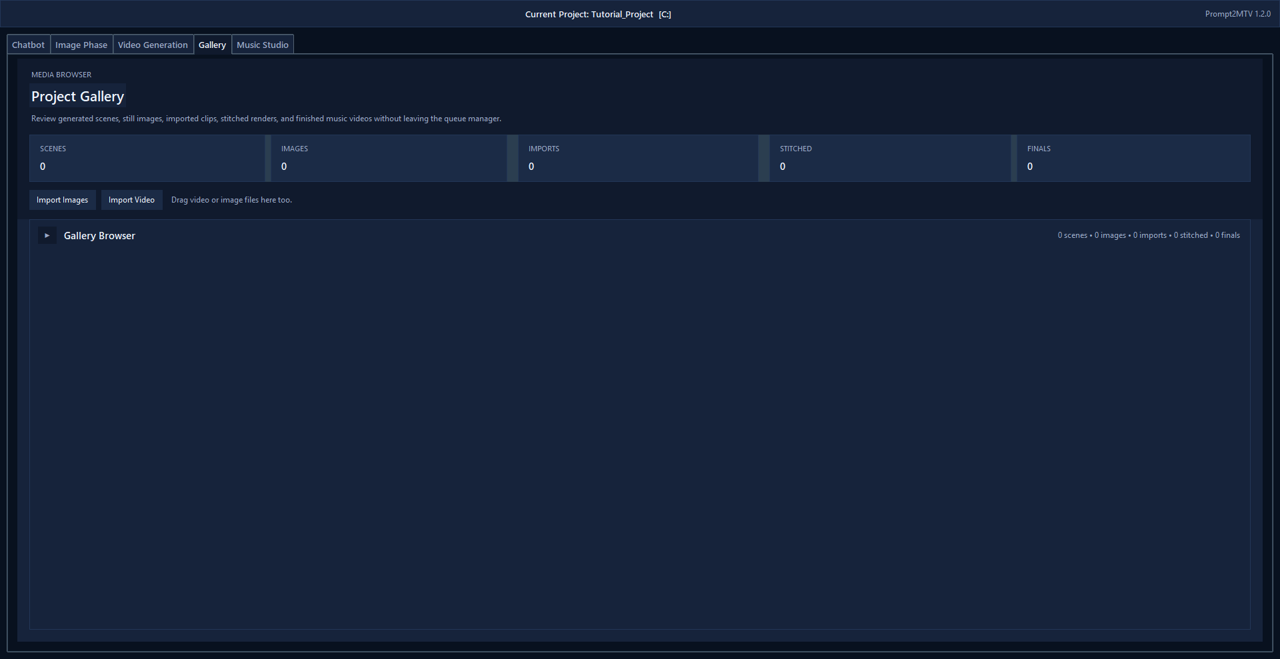
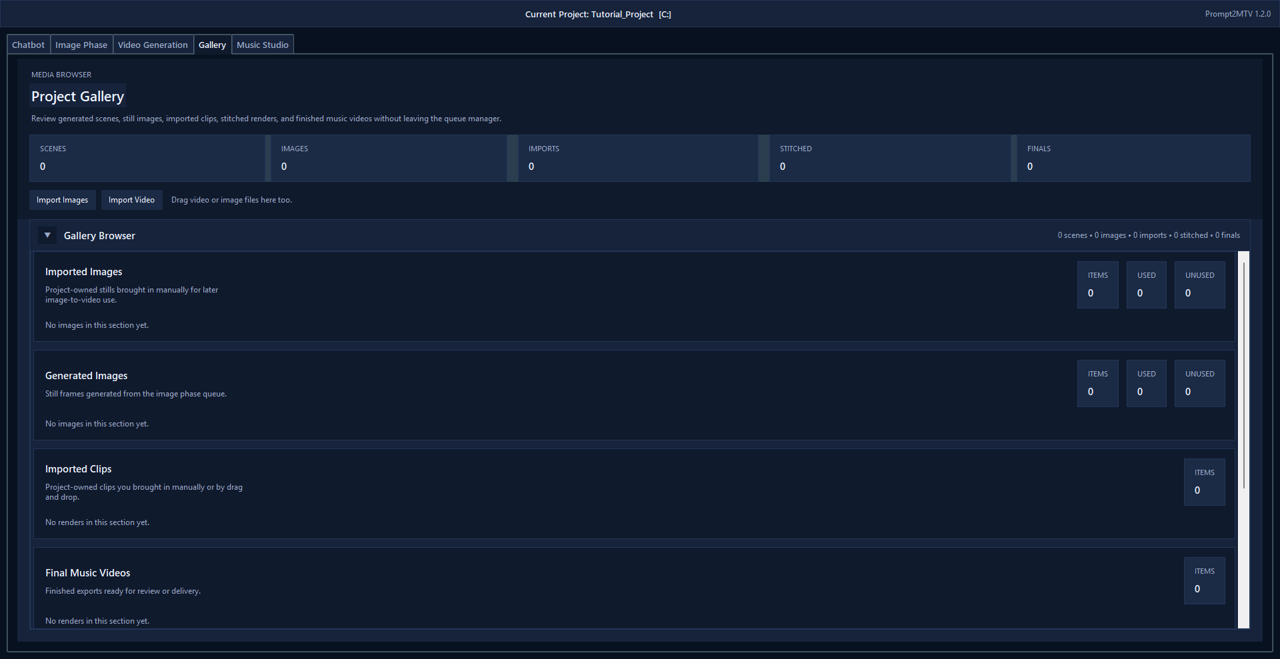
Improve README screenshots with expanded sections and sample data
- Expand collapsible sections on each tab before capture
- Inject sample scene prompts, image prompts, music tags and lyrics
- Monkey-patch ComfyUI launch to prevent side-effects during capture
- Chatbot: conversation visible, Creative Workspace expanded
- Image Phase: utilities + prompt queue expanded with 3 prompts
- Video Generation: scene timeline expanded with 3 scenes
- Gallery: browser expanded showing all media categories
- Music Studio: style direction + lyrics + run sections expanded

diff --git a/tools/capture_screenshots.py b/tools/capture_screenshots.py
@@ -2,9 +2,8 @@
 """
 Automated screenshot capture for Prompt2MTV README.
 
-Launches the app headlessly (no mainloop), navigates each tab,
-injects sample data where needed, and captures screenshots using
-Pillow's ImageGrab.
+Launches the app, navigates each tab, injects sample data, expands
+collapsible sections, and captures screenshots using Pillow ImageGrab.
 
 Usage:
     python tools/capture_screenshots.py
@@ -14,6 +13,7 @@ import ctypes
 import os
 import sys
 import time
+import tkinter as tk
 
 # ── DPI awareness (must be set before any Tk import) ────────────────────────
 try:
@@ -31,37 +31,97 @@ from PIL import ImageGrab  # noqa: E402
 SCREENSHOT_DIR = os.path.join(PROJECT_ROOT, "screenshots")
 os.makedirs(SCREENSHOT_DIR, exist_ok=True)
 
-# Target width for README images (screenshots will be resized proportionally)
+# Target width for README images
 TARGET_WIDTH = 1280
 
 # ── Sample data ─────────────────────────────────────────────────────────────
 CHATBOT_SAMPLE_TURNS = [
-    ("user", "I want to create a cinematic music video about a lone astronaut drifting through a neon-lit nebula. Can you help brainstorm ideas?"),
-    ("assistant", "Great concept! Here are a few directions we could take:\n\n"
-     "1. **Solitude & Wonder** — slow, sweeping shots of the astronaut silhouetted against swirling violet and teal gas clouds.\n"
-     "2. **Retro-Futurism** — 80s-inspired synthwave palette with glowing grid lines overlaid on deep-space vistas.\n"
-     "3. **Emotional Arc** — start in cold darkness, gradually introduce warm neon hues as the music builds.\n\n"
+    ("user", "I want to create a cinematic music video about a lone astronaut drifting "
+     "through a neon-lit nebula. Can you help brainstorm ideas?"),
+    ("assistant",
+     "Great concept! Here are a few directions we could take:\n\n"
+     "1. Solitude & Wonder — slow, sweeping shots of the astronaut silhouetted "
+     "against swirling violet and teal gas clouds.\n"
+     "2. Retro-Futurism — 80s-inspired synthwave palette with glowing grid lines "
+     "overlaid on deep-space vistas.\n"
+     "3. Emotional Arc — start in cold darkness, gradually introduce warm neon "
+     "hues as the music builds.\n\n"
      "Which vibe resonates with you, or shall I combine elements?"),
     ("user", "I love the Retro-Futurism angle with the emotional arc! Let's combine those."),
-    ("assistant", "Perfect combo! I'll draft scene prompts that start in dark deep-space with subtle cyan edges, "
-     "then gradually introduce hot-pink and gold neon grids as the track reaches its crescendo. "
-     "The astronaut's visor will reflect the growing light — a nice metaphor for discovery. "
-     "Ready to generate the scene breakdown when you are!"),
+    ("assistant",
+     "Perfect combo! I'll draft scene prompts that start in dark deep-space with "
+     "subtle cyan edges, then gradually introduce hot-pink and gold neon grids as "
+     "the track reaches its crescendo. The astronaut's visor will reflect the "
+     "growing light — a nice metaphor for discovery. Ready to generate the scene "
+     "breakdown when you are!"),
 ]
+
+SCENE_PROMPTS = [
+    "A lone astronaut floats in silence through the void of deep space. Faint cyan light "
+    "edges the suit's visor. Stars drift slowly. Cold, dark, cinematic wide shot.",
+    "The camera slowly pushes in as a neon-purple nebula emerges behind the astronaut. "
+    "Synthwave grid lines begin to materialize in the gas clouds, glowing faintly.",
+    "Hot-pink and gold neon light floods the frame as the nebula erupts in color. "
+    "The astronaut's visor reflects swirling patterns. Music crescendo, euphoric.",
+]
+
+IMAGE_PROMPTS = [
+    "Deep-space void, lone astronaut silhouette, faint cyan rim light on helmet visor, "
+    "ultra-wide cinematic still, 8K, photorealistic",
+    "Retro-futurism nebula swirl, synthwave grid overlay, violet and teal gas clouds, "
+    "astronaut mid-frame, digital painting, concept art",
+    "Neon explosion nebula, hot-pink and gold light rays, astronaut visor reflection, "
+    "dramatic close-up portrait, hyper-detailed",
+]
+
+MUSIC_TAGS = (
+    "synthwave, retro-futurism, cinematic, atmospheric, electronic, "
+    "80s nostalgia, dreamy pads, arpeggiated synths, deep bass, "
+    "emotional build, neon-lit, space exploration, euphoric crescendo"
+)
+
+MUSIC_LYRICS = """[Verse 1]
+Drifting through the silence of a thousand suns
+Cold and weightless, counting stars that never come
+A flicker on the visor, cyan edge of light
+The universe is waking from an endless night
+
+[Chorus]
+Neon rising, colors bleeding through the dark
+Every photon carries fire, every wave a spark
+Hold your breath and feel the grid beneath your skin
+The nebula is calling — let the light begin
+
+[Verse 2]
+Pink and gold erupting where the void once stood
+Synthwave pulses echoing like heart and blood
+Reflections in the glass of everything I've found
+A universe of color where there was no sound
+
+[Chorus]
+Neon rising, colors bleeding through the dark
+Every photon carries fire, every wave a spark
+Hold your breath and feel the grid beneath your skin
+The nebula is calling — let the light begin"""
+
+
+# ── Helpers ─────────────────────────────────────────────────────────────────
+
+def _settle(root, delay=0.5):
+    """Force TK to update and wait for the compositor."""
+    root.update_idletasks()
+    root.update()
+    time.sleep(delay)
 
 
 def _grab_window(root):
     """Capture the Tk root window region and return a PIL Image."""
-    root.update_idletasks()
-    root.update()
-    time.sleep(0.4)  # let the compositor finish rendering
-
+    _settle(root, 0.5)
     x = root.winfo_rootx()
     y = root.winfo_rooty()
     w = root.winfo_width()
     h = root.winfo_height()
-    img = ImageGrab.grab(bbox=(x, y, x + w, y + h))
-    return img
+    return ImageGrab.grab(bbox=(x, y, x + w, y + h))
 
 
 def _save(img, name):
@@ -75,67 +135,152 @@ def _save(img, name):
     return path
 
 
+def _open_section(app, key):
+    """Open a collapsible section by key (close siblings in its group)."""
+    app._set_collapsible_section_open(key, True)
+
+
 def main():
     print("Launching Prompt2MTV for screenshot capture …")
 
-    # Import app classes
+    # ── Monkey-patch to prevent ComfyUI from launching ──────────────────
     import ltx_queue_manager as mod
+    _original_launch = mod.LTXQueueManager.launch_comfyui
+    mod.LTXQueueManager.launch_comfyui = lambda self: None
 
     root = mod.Prompt2MTVWindow(themename=mod.THEME_NAME)
     app = mod.LTXQueueManager(root)
 
+    # Restore in case we need it later
+    mod.LTXQueueManager.launch_comfyui = _original_launch
+
     # Let the UI fully render
-    root.update_idletasks()
-    root.update()
-    time.sleep(1.5)
+    _settle(root, 1.5)
 
     saved = []
 
-    # ── 1. Chatbot tab (Chat mode with sample conversation) ─────────────
+    # ════════════════════════════════════════════════════════════════════
+    # 1. CHATBOT TAB  — conversation + expanded workspace
+    # ════════════════════════════════════════════════════════════════════
     print("[1/5] Chatbot tab …")
     app.notebook.select(app.chatbot_tab)
+    _settle(root, 0.3)
+
+    # Set mode to Chat / Explore
     app.chatbot_task_var.set(mod.CHATBOT_TASK_CHAT)
+
+    # Inject sample conversation
     conv_id = app._ensure_active_chatbot_conversation(title="Neon Nebula Music Video")
     for role, content in CHATBOT_SAMPLE_TURNS:
         app._append_chatbot_turn(role, content, kind="chat", conversation_id=conv_id)
     app._refresh_chatbot_transcript()
-    root.update_idletasks()
-    root.update()
-    time.sleep(0.5)
+
+    # Expand the Creative Workspace section
+    _open_section(app, "chatbot_focus_workspace")
+
+    _settle(root, 0.6)
     saved.append(_save(_grab_window(root), "01_chatbot"))
 
-    # ── 2. Image Phase tab ──────────────────────────────────────────────
+    # ════════════════════════════════════════════════════════════════════
+    # 2. IMAGE PHASE TAB  — expanded with prompts filled in
+    # ════════════════════════════════════════════════════════════════════
     print("[2/5] Image Phase tab …")
     app.notebook.select(app.image_tab)
-    root.update_idletasks()
-    root.update()
-    time.sleep(0.3)
+    _settle(root, 0.3)
+
+    # Expand Image Utilities (header area with stats + settings)
+    _open_section(app, "image_utilities")
+    _settle(root, 0.2)
+
+    # Expand Image Prompt Queue section
+    _open_section(app, "image_prompt_queue")
+    _settle(root, 0.2)
+
+    # Add sample image prompts
+    for prompt_text in IMAGE_PROMPTS:
+        app.add_image_prompt_entry()
+        # The last added widget is at the end of app.image_prompts
+        app.image_prompts[-1].insert("1.0", prompt_text)
+
+    # Update the meta text
+    app._update_prompt_collection_summary()
+    app._update_image_workspace_balance()
+    _settle(root, 0.5)
     saved.append(_save(_grab_window(root), "02_image_phase"))
 
-    # ── 3. Video Generation tab ─────────────────────────────────────────
+    # ════════════════════════════════════════════════════════════════════
+    # 3. VIDEO GENERATION TAB  — scene timeline expanded with scenes
+    # ════════════════════════════════════════════════════════════════════
     print("[3/5] Video Generation tab …")
     app.notebook.select(app.video_tab)
-    root.update_idletasks()
-    root.update()
-    time.sleep(0.3)
+    _settle(root, 0.3)
+
+    # Expand Scene Timeline section
+    _open_section(app, "scene_timeline")
+    _settle(root, 0.2)
+
+    # Add sample scene entries
+    for i, prompt in enumerate(SCENE_PROMPTS):
+        scene_data = app._create_scene_entry(
+            order_index=i + 1,
+            mode=mod.SCENE_MODE_T2V,
+            prompt=prompt,
+        )
+        app.add_scene_timeline_entry(scene_data)
+
+    app._update_prompt_collection_summary()
+    app._update_video_workspace_balance()
+    _settle(root, 0.5)
     saved.append(_save(_grab_window(root), "03_video_generation"))
 
-    # ── 4. Gallery tab ──────────────────────────────────────────────────
+    # ════════════════════════════════════════════════════════════════════
+    # 4. GALLERY TAB  — expanded browser section
+    # ════════════════════════════════════════════════════════════════════
     print("[4/5] Gallery tab …")
     app.notebook.select(app.gallery_tab)
-    root.update_idletasks()
-    root.update()
-    time.sleep(0.3)
+    _settle(root, 0.3)
+
+    # Expand Gallery Browser section
+    _open_section(app, "gallery_browser")
+    _settle(root, 0.5)
     saved.append(_save(_grab_window(root), "04_gallery"))
 
-    # ── 5. Music Studio tab ─────────────────────────────────────────────
+    # ════════════════════════════════════════════════════════════════════
+    # 5. MUSIC STUDIO TAB  — expanded with tags, lyrics, and controls
+    # ════════════════════════════════════════════════════════════════════
     print("[5/5] Music Studio tab …")
     app.notebook.select(app.music_tab)
-    root.update_idletasks()
-    root.update()
-    time.sleep(0.3)
+    _settle(root, 0.3)
+
+    # Fill in music style tags
+    app.music_tags_text.insert("1.0", MUSIC_TAGS)
+
+    # Fill in lyrics
+    app.music_lyrics_text.insert("1.0", MUSIC_LYRICS)
+
+    # Set richer music config values
+    app.music_duration_var.set(180)
+    app.music_bpm_var.set(128)
+    app.music_key_var.set("A minor")
+
+    # Update the summary chips
+    app._update_music_config_summary()
+
+    # Expand Style Direction section to show tags
+    _open_section(app, "music_prompt")
+    _settle(root, 0.2)
+
+    # Expand Lyrics section
+    _open_section(app, "music_lyrics")
+    _settle(root, 0.2)
+
+    # Expand Run and Review section
+    _open_section(app, "music_actions")
+    _settle(root, 0.5)
+
     saved.append(_save(_grab_window(root), "05_music_studio"))
 
+    # ── Cleanup ─────────────────────────────────────────────────────────
     root.destroy()
 
     print(f"\nDone — {len(saved)} screenshots saved to {SCREENSHOT_DIR}")
